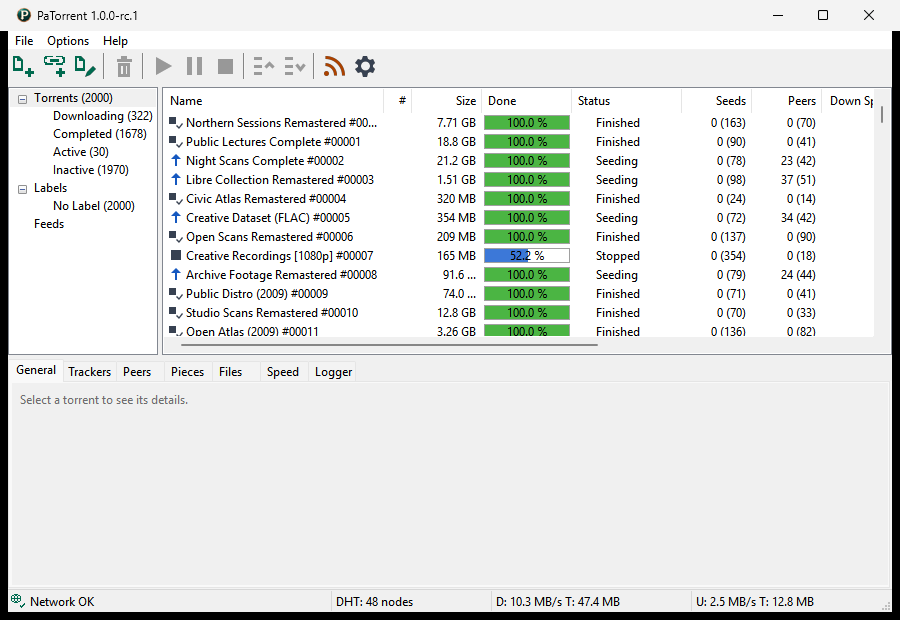
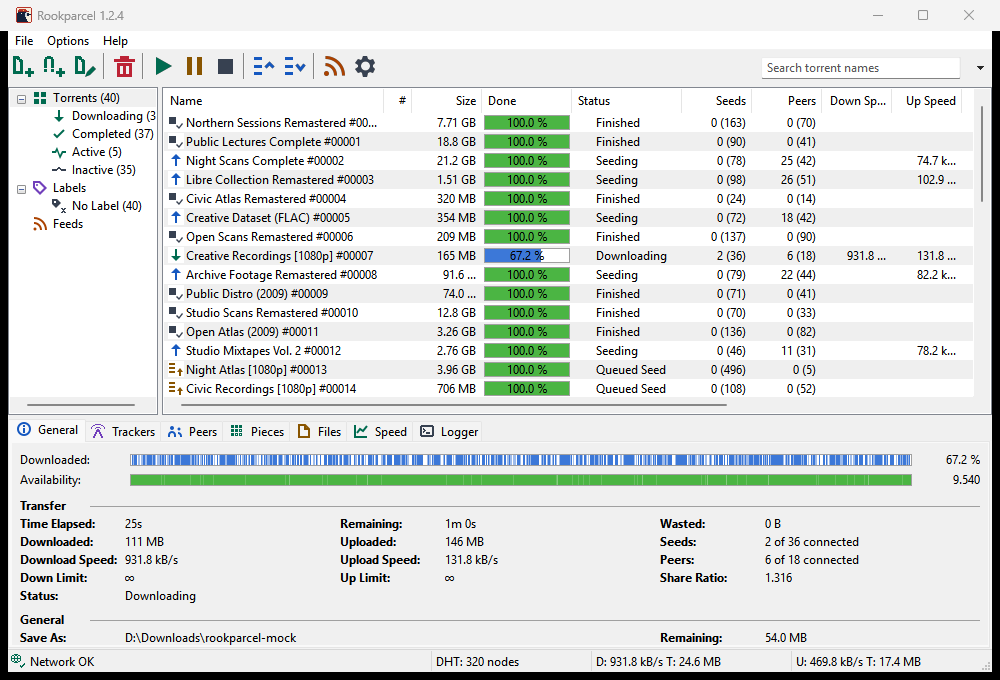
Website: screenshots of Rookparcel 1.2.4 (main window, Add New Torrent)
The home page's main window and Add New Torrent shots were PaTorrent 1.0.0-rc.1 and an
older dialog layout. New shots from a portable 1.2.4 demo copy on the hidden desktop: the
Postal Rook icon, a clean title-bar version, a downloading torrent's General tab, neutral
D:\Downloads paths. The dialog's size and alt text in index.html follow the new layout.
CHANGELOG entries for 1.1.75-1.1.78 moved to docs/archive to keep the file under budget.

diff --git a/site/index.html b/site/index.html
@@ -72,7 +72,7 @@
         </figure>
         <div class="shot-pair">
           <figure class="shot">
-            <img src="img/add-new-torrent.png" width="646" height="458" loading="lazy" alt="The Add New Torrent dialog: the Save In folder, the torrent's name, the torrent options and a label on the left; the torrent's files with their sizes and priorities on the right.">
+            <img src="img/add-new-torrent.png" width="751" height="602" loading="lazy" alt="The Add New Torrent dialog: the Save In folder, the torrent's name, the torrent options and a label at the top; below them the torrent's details and its files with their sizes and priorities.">
             <figcaption>Add New Torrent: choose the folder, the files and their priorities.</figcaption>
           </figure>
           <div>

diff --git a/CHANGELOG.md b/CHANGELOG.md
@@ -4,6 +4,12 @@ Recent completed changes, issues and decisions. Timestamps: `YYYY-MM-DD_HHMMSS_<
 
 Earlier history: [archive index](docs/archive/README.md), including all 148 original entries from 2026-10-15 through 2026-10-23. Open archived entries only for a specific historical question. Current work: [PLAN.md](PLAN.md).
 
+## 2026-11-06_082258_1793949778: Website: screenshots of Rookparcel 1.2.4
+
+- `site/img/screenshot-windows.png` (1000x680) and `add-new-torrent.png` (751x602, also `docs/screenshots/`) are new shots of the 1.2.4 Win32 GUI: "Rookparcel 1.2.4" in the title bar (built with `ROOKPARCEL_BUILD` empty), the Postal Rook icon, the toolbar search box, a downloading torrent's General tab, and the current Add New Torrent layout with the Sintel torrent. Taken on the hidden desktop from a portable demo copy (`--demo 40`), with `TMP` and `dir.download` pointed at `D:\Downloads` so no user folder shows. `index.html`: the dialog's size and alt text follow the new layout.
+- Checked: `build.py --strict`, the site tests, and the home page in the browser pane.
+- Still "PaTorrent" on GitHub: the release titles and bodies up to 1.2.0, and the 1.2.0 file names on the download page (the files are named so; `build.py` accepts both prefixes). Both go once a Rookparcel release is published. The wiki's other screenshots still show PaTorrent title bars.
+
 ## 2026-11-05_230706_1793916426: Published: the rename on GitHub `main` and the wiki
 
 - The owner renamed the repository to `Balls0fSteel/Rookparcel`; Pages serves `https://balls0fsteel.github.io/Rookparcel/`. `origin` now names the new URL. `main` was fast-forwarded to `58e5b1fa` (1.2.2-1.2.4, the icons and the site colours) and pushed.
@@ -69,38 +75,3 @@ Entries below this one keep the old name PaTorrent.
 - Version bumped to 1.2.0. Peer ID `-PA1013-` (owner, 2026-11-05_183712_1793900232) for the wire changes of 1.1.66, 1.1.70, 1.1.74 and 1.1.76. The remote protocol is 15 (14 since 1.1.58, 15 since 1.1.70).
 - **Published 2026-11-05_204405_1793907845:** CI, FreeBSD and Fuzz green on 8e613e30 (one fuzz job hung in the runner's `apt-get` and was rerun); the draft's 14 files built, checksums and `patorrent-nox --version` checked, the text matches the notes. The website (FAQ and download text from `site-profiles`, the `site/news.html` entry) went out right after; `update.txt` says `stable=1.2.0`.
 - **Issue:** macOS CI on the website push failed `parallel_guesses_stop_at_the_ban_limit`: a guess banned between `login`'s ban check and `check_login`'s is refused but answered "Fails.". The ban holds; logged in BACKLOG "Validation" with the fix.
-
-## 2026-11-05_152743_1793888863: Version 1.1.78: search hash check, folder case, Web UI private flag and queue order, RSS read marks, unknown sizes, help texts
-
-- **Fixed:** a merged search result whose fetched torrent has another info-hash is refused (new string `SearchErrHashMismatch`, all tables).
-- **Fixed:** `same_dir` ignores case only on Windows and macOS, so `/Data` and `/data` stay apart on Linux (frontend and nox).
-- **Web UI shim:** restored torrents' `isPrivate` fills in (metadata at up to 128 per tick); `queuedDL` sorts as libtorrent orders it; RSS read marks persist (`useRegex` still ignored); an unknown size is an empty cell, not 0 B.
-- Serbian mnemonic fixed; help texts corrected (Hashing threads says it is not used); PORTING.md rows added.
-- Clippy, frontend (288) and nox tests pass, one thread at Idle priority. BACKLOG drops the items closed in 1.1.75-1.1.78.
-- **Validated (2026-11-05_152743_1793888863):** on the Xubuntu VM, `patorrent-gtk` passes stable clippy and its 31 tests, so the GTK changes of 1.1.75 and 1.1.77 build on Linux (not run in a GTK session). PLAN trimmed under 16 KiB.
-- **CI fix (test only, no bump):** macOS CI failed `a_body_streams_to_the_sink` with `TimedOut`: its 12-byte body could not earn time against 1.1.76's `MIN_STREAM_RATE`, so it passed only if the whole body came within the 1.5 s grace. It now sends three 2 KiB pieces 1 s apart (each earns 2 s), and checks again that the body outlasts one timeout.
-
-## 2026-11-05_152150_1793888510: Version 1.1.77: update folder, update URL overrides, tray Show, private DHT/PEX, "Restoring torrents...", scrapes logged
-
-- **Fixed:** Win32 self-update downloads its setup into `%LOCALAPPDATA%\PaTorrent\update` instead of a shareable `%TEMP%\PaTorrent-update` (the old folder is emptied and removed).
-- **Fixed:** `PATORRENT_UPDATE_URL` / `PATORRENT_UPDATE_FILES` are honoured only for https or plain http to this machine (`override_allowed`); otherwise the real URLs are used.
-- **Win32:** the tray menu says Show for a minimized window; the status bar shows "Restoring torrents..." (new string `BarRestoring`, all tables) until the session's torrents are restored.
-- **Win32, GTK:** Torrent Properties greys DHT and PEX when every selected torrent is private and does not apply them then; scrape replies and failures go to the Logger like other tracker alerts.
-- Validated: clippy, the frontend tests (284), and the Win32 tests in about 280 parallel runs of this tree; GTK not built on Linux yet.
-- **Investigated:** the Win32 test binary's heap corruption under parallel load is real (full page heap caught a verifier stop once in ~148 runs) but not traced to code yet; BACKLOG has the evidence and two parallel-test flakes found on the way. Three older entries moved to `docs/archive/`.
-
-## 2026-11-05_105833_1793872713: Version 1.1.76: engine backlog items (fetch deadline, upload mode, web seed credentials, LSD hybrids)
-
-- **Fixed:** `http_get_to` requires a streamed body to average at least 1 KiB/s after one timeout's grace (`MIN_STREAM_RATE`), so a slow-drip server cannot hold an update or helper download open forever.
-- **Fixed (libtorrent `set_upload_mode`):** entering upload mode cancels every peer's outstanding requests (`cancel_all_requests`, also used by `snub`); leaving it clears the peers' reconnect delays. Dropping all at once, the block in flight included, is noted in PORTING.md. Wire behaviour change.
-- **Fixed:** web seed URLs with credentials show `user:***@` in the peer list, log lines and the `UrlSeed` alert text; the engine, resume data and the `WebSeeds` alert keep the real URL (PORTING.md).
-- **Fixed (libtorrent `lsd_announce`):** hybrid torrents announce both the v1 and the truncated v2 hash on LSD.
-- The SChannel stale-key test uses a per-run key name. Skipped: resetting the reconnect delay on unskip (libtorrent 2.0.11 does not either), and `hash_request_cost` (already right since 1.1.33; the BACKLOG note was stale).
-- Tests for each; clippy and all core tests pass.
-
-## 2026-11-05_104753_1793872073: Version 1.1.75: GTK row shading, Start/Stop/Pause/Enter keys, refused Relocate shown
-
-- **GTK:** the torrent list, detail tables and RSS items shade every other row, as Win32 does: odd rows get `pa-alt` by position (bind and position changes; `nth-child` would count only rows on screen), and a CSS rule is on the display while `ui.alternate_rows` is on. UI Settings shows the box on GTK now.
-- **GTK:** Ctrl+S / Ctrl+T / Ctrl+Shift+P start, stop and pause; Enter in the torrent list opens Properties (a double click still opens a finished torrent's folder), as on Win32.
-- **GTK:** a Relocate the engine refuses shows an error dialog besides the Logger line (new string `CannotRelocate`, all 35 tables, machine translations). Files tab Ctrl+A was already done by D50 (1.1.56).
-- Clippy for the Linux target from Windows and the frontend tests pass; not run in a GTK session yet.

diff --git a/docs/archive/CHANGELOG-2026-11-05-v1.1.75-v1.1.78-2026-11-06_082258_1793949778.md b/docs/archive/CHANGELOG-2026-11-05-v1.1.75-v1.1.78-2026-11-06_082258_1793949778.md
@@ -1,0 +1,38 @@
+# Changelog archive: 2026-11-05, v1.1.75-v1.1.78
+
+Moved from the root CHANGELOG.md on 2026-11-06_082258_1793949778. Paths and links keep their repository-root context.
+
+## 2026-11-05_152743_1793888863: Version 1.1.78: search hash check, folder case, Web UI private flag and queue order, RSS read marks, unknown sizes, help texts
+
+- **Fixed:** a merged search result whose fetched torrent has another info-hash is refused (new string `SearchErrHashMismatch`, all tables).
+- **Fixed:** `same_dir` ignores case only on Windows and macOS, so `/Data` and `/data` stay apart on Linux (frontend and nox).
+- **Web UI shim:** restored torrents' `isPrivate` fills in (metadata at up to 128 per tick); `queuedDL` sorts as libtorrent orders it; RSS read marks persist (`useRegex` still ignored); an unknown size is an empty cell, not 0 B.
+- Serbian mnemonic fixed; help texts corrected (Hashing threads says it is not used); PORTING.md rows added.
+- Clippy, frontend (288) and nox tests pass, one thread at Idle priority. BACKLOG drops the items closed in 1.1.75-1.1.78.
+- **Validated (2026-11-05_152743_1793888863):** on the Xubuntu VM, `patorrent-gtk` passes stable clippy and its 31 tests, so the GTK changes of 1.1.75 and 1.1.77 build on Linux (not run in a GTK session). PLAN trimmed under 16 KiB.
+- **CI fix (test only, no bump):** macOS CI failed `a_body_streams_to_the_sink` with `TimedOut`: its 12-byte body could not earn time against 1.1.76's `MIN_STREAM_RATE`, so it passed only if the whole body came within the 1.5 s grace. It now sends three 2 KiB pieces 1 s apart (each earns 2 s), and checks again that the body outlasts one timeout.
+
+## 2026-11-05_152150_1793888510: Version 1.1.77: update folder, update URL overrides, tray Show, private DHT/PEX, "Restoring torrents...", scrapes logged
+
+- **Fixed:** Win32 self-update downloads its setup into `%LOCALAPPDATA%\PaTorrent\update` instead of a shareable `%TEMP%\PaTorrent-update` (the old folder is emptied and removed).
+- **Fixed:** `PATORRENT_UPDATE_URL` / `PATORRENT_UPDATE_FILES` are honoured only for https or plain http to this machine (`override_allowed`); otherwise the real URLs are used.
+- **Win32:** the tray menu says Show for a minimized window; the status bar shows "Restoring torrents..." (new string `BarRestoring`, all tables) until the session's torrents are restored.
+- **Win32, GTK:** Torrent Properties greys DHT and PEX when every selected torrent is private and does not apply them then; scrape replies and failures go to the Logger like other tracker alerts.
+- Validated: clippy, the frontend tests (284), and the Win32 tests in about 280 parallel runs of this tree; GTK not built on Linux yet.
+- **Investigated:** the Win32 test binary's heap corruption under parallel load is real (full page heap caught a verifier stop once in ~148 runs) but not traced to code yet; BACKLOG has the evidence and two parallel-test flakes found on the way. Three older entries moved to `docs/archive/`.
+
+## 2026-11-05_105833_1793872713: Version 1.1.76: engine backlog items (fetch deadline, upload mode, web seed credentials, LSD hybrids)
+
+- **Fixed:** `http_get_to` requires a streamed body to average at least 1 KiB/s after one timeout's grace (`MIN_STREAM_RATE`), so a slow-drip server cannot hold an update or helper download open forever.
+- **Fixed (libtorrent `set_upload_mode`):** entering upload mode cancels every peer's outstanding requests (`cancel_all_requests`, also used by `snub`); leaving it clears the peers' reconnect delays. Dropping all at once, the block in flight included, is noted in PORTING.md. Wire behaviour change.
+- **Fixed:** web seed URLs with credentials show `user:***@` in the peer list, log lines and the `UrlSeed` alert text; the engine, resume data and the `WebSeeds` alert keep the real URL (PORTING.md).
+- **Fixed (libtorrent `lsd_announce`):** hybrid torrents announce both the v1 and the truncated v2 hash on LSD.
+- The SChannel stale-key test uses a per-run key name. Skipped: resetting the reconnect delay on unskip (libtorrent 2.0.11 does not either), and `hash_request_cost` (already right since 1.1.33; the BACKLOG note was stale).
+- Tests for each; clippy and all core tests pass.
+
+## 2026-11-05_104753_1793872073: Version 1.1.75: GTK row shading, Start/Stop/Pause/Enter keys, refused Relocate shown
+
+- **GTK:** the torrent list, detail tables and RSS items shade every other row, as Win32 does: odd rows get `pa-alt` by position (bind and position changes; `nth-child` would count only rows on screen), and a CSS rule is on the display while `ui.alternate_rows` is on. UI Settings shows the box on GTK now.
+- **GTK:** Ctrl+S / Ctrl+T / Ctrl+Shift+P start, stop and pause; Enter in the torrent list opens Properties (a double click still opens a finished torrent's folder), as on Win32.
+- **GTK:** a Relocate the engine refuses shows an error dialog besides the Logger line (new string `CannotRelocate`, all 35 tables, machine translations). Files tab Ctrl+A was already done by D50 (1.1.56).
+- Clippy for the Linux target from Windows and the frontend tests pass; not run in a GTK session yet.

diff --git a/PLAN.md b/PLAN.md
@@ -1,6 +1,6 @@
 # Rookparcel plan
 
-Last updated: 2026-11-05_225249_1793915569
+Last updated: 2026-11-06_082258_1793949778
 
 Read this file for current work. Load only the relevant sections of [detailed follow-ups](docs/BACKLOG.md) or [decisions D1-D60](docs/DECISIONS.md) when needed. Completed phase checklists and old reports are in the [history index](docs/archive/README.md); they are not the active plan.
 
@@ -20,7 +20,7 @@ Design: [ARCHITECTURE.md](docs/ARCHITECTURE.md), [PORTING.md](docs/PORTING.md), 
 
 - **Small Postal Rook studies (2026-11-05_225249_1793915569):** [11 new candidates](docs/art/postal-rook-small-2026-11-05/README.md), with ICOs and actual 16 px comparisons. Review shortlist: 10 Night Courier, 11 Closed Envelope, 09 Compact Courier. Candidate exploration only; D60 and production assets unchanged.
 
-- **Renamed PaTorrent to Rookparcel** (D59, 1.2.2): names, peer ID `-RP1014-`, remote protocol 16, a one-time takeover of PaTorrent's folders, registry, desktop entries and services. The repository is renamed (Pages at `/Rookparcel/`), `main` and the wiki are pushed (2026-11-05); the icon is D60. Open: upgrading a real PaTorrent 1.2 install on Windows, Linux and macOS.
+- **Renamed PaTorrent to Rookparcel** (D59, 1.2.2): names, peer ID `-RP1014-`, remote protocol 16, a one-time takeover of PaTorrent's folders, registry, desktop entries and services. The repository is renamed (Pages at `/Rookparcel/`), `main` and the wiki are pushed (2026-11-05); the icon is D60. The site's screenshots show 1.2.4 (2026-11-06_082258_1793949778). Open: upgrading a real PaTorrent 1.2 install on Windows, Linux and macOS; the first Rookparcel release, which replaces the PaTorrent 1.2.0 files on the download page and GitHub's "Latest"; the wiki screenshots' PaTorrent title bars.
 
 - **UI icon studies (2026-11-05_221629_1793913389):** [96 studies across four sheets](docs/art/rookparcel-ui-2026-11-05/README.md), with prompts and review. Next: select candidates, correct state semantics, then redraw and check native 16/20/24 px exports before integration.
 

diff --git a/docs/archive/README.md b/docs/archive/README.md
@@ -59,3 +59,4 @@ rg -n -C 4 '2026-10-20_131729|super.seed' docs/archive/CHANGELOG-2026-10-15--202
 
 Keep archives as plain Markdown so Git diffs, repository browsing and targeted searches work without extraction. Add new dated files with unique names and update this index. Keep root documents around 16 KiB / 200 lines or less, moving complete older changelog entries and summarizing completed plan work before they exceed that budget. Never move unresolved work solely into a historical snapshot.
 | [Changelog, 2026-11-05, v1.1.71-v1.1.74](CHANGELOG-2026-11-05-v1.1.71-v1.1.74-2026-11-05_225249_1793915569.md) | `2026-11-05_101739_1793870259` through `2026-11-05_102610_1793870770` | Four complete entries moved on 2026-11-05_225249_1793915569: Win32, nox/frontend/GTK, disk/platform and engine bug-hunt fixes, including validation. |
+| [Changelog, 2026-11-05, v1.1.75-v1.1.78](CHANGELOG-2026-11-05-v1.1.75-v1.1.78-2026-11-06_082258_1793949778.md) | `2026-11-05_104753_1793872073` through `2026-11-05_152743_1793888863` | 4 complete entries moved on 2026-11-06_082258_1793949778: versions 1.1.75-1.1.78 (GTK keys and shading, engine backlog items, update and tray fixes, search hash check and Web UI fixes), including validation. |
